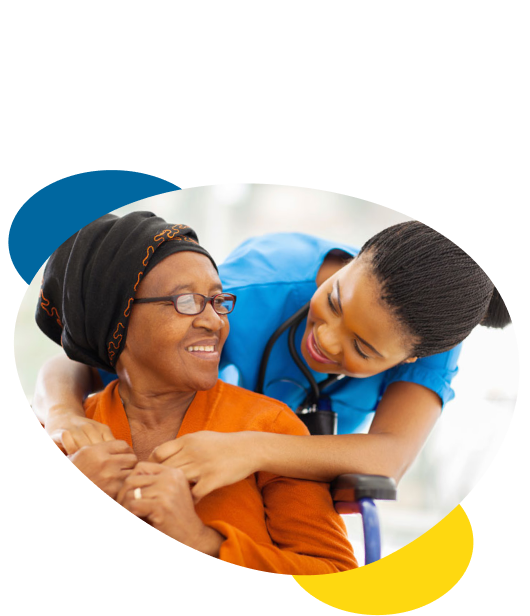
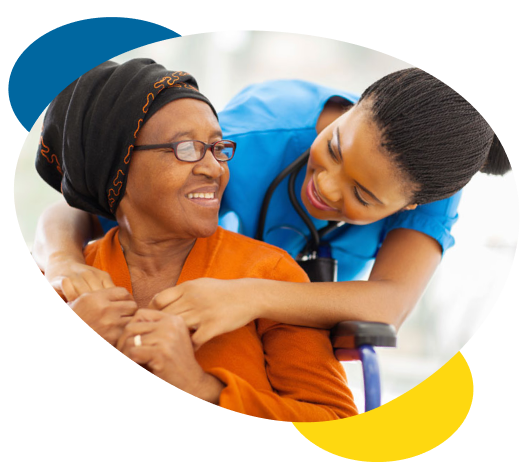
fix: make image in section 3 responsive

diff --git a/css/home.css b/css/home.css
@@ -43,6 +43,10 @@
   display: flex;
   flex-direction: column;
 }
+
+.cta__content {
+  padding-left: 0.875rem;
+}
 .hero__content .btn,
 .cta__content .btn {
   width: fit-content;
@@ -64,7 +68,10 @@
 }
 
 .cta__figure {
-  background-image: url("../assets/Image/landing-page-02-desktop.png");
+  padding: 4rem 4rem 4rem 0;
+}
+.cta__figure-img {
+  width: 100%;
 }
 
 /* SERVICES SECTION STYLES */
@@ -183,7 +190,13 @@
     background-image: url("../assets/Image/landing-page-01-mobile.png");
   }
 
+  .cta__figure-img {
+    display: none;
+  }
+
   .cta__figure {
+    padding: 0;
+    background-position: center;
     background-image: url("../assets/Image/landing-page-02-mobile.png");
   }
   .hero__content,

diff --git a/index.html b/index.html
@@ -143,7 +143,13 @@
     </section>
     <section class="cta">
       <div class="wrapper">
-        <div class="cta__figure"></div>
+        <div class="cta__figure">
+          <img
+            class="cta__figure-img"
+            src="./assets/Image/landing-page-02-desktop.png"
+            alt=""
+          />
+        </div>
         <div class="cta__content">
           <h1 class="cta__heading">
             Can’t access good medical care? Connect with
